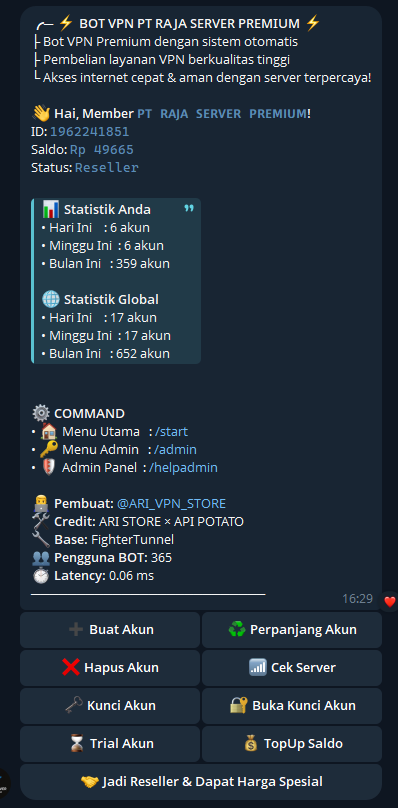
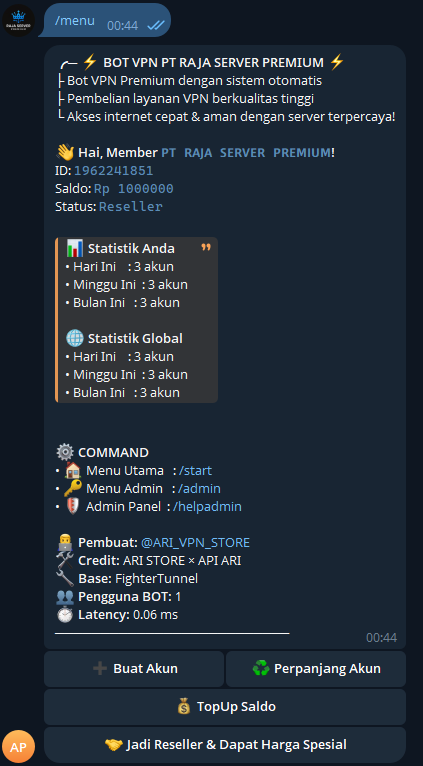
up

diff --git a/app.js b/app.js
@@ -37,51 +37,12 @@ const {
 } = require('./modules/create');
 
 const { 
-  trialssh, 
-  trialvmess, 
-  trialvless, 
-  trialtrojan, 
-  trialshadowsocks 
-} = require('./modules/trial');
-
-const { 
   renewssh, 
   renewvmess, 
   renewvless, 
   renewtrojan, 
   renewshadowsocks 
 } = require('./modules/renew');
-
-const { 
-  delssh, 
-  delvmess, 
-  delvless, 
-  deltrojan, 
-  delshadowsocks 
-} = require('./modules/del');
-
-const { 
-  lockssh, 
-  lockvmess, 
-  lockvless, 
-  locktrojan, 
-  lockshadowsocks 
-} = require('./modules/lock');
-
-const { 
-  unlockssh, 
-  unlockvmess, 
-  unlockvless, 
-  unlocktrojan, 
-  unlockshadowsocks 
-} = require('./modules/unlock');
-
-const { 
-  changelimipsshvpn, 
-  changelimipvmess, 
-  changelimipvless, 
-  changelimiptrojan
-} = require('./modules/change-ip');
 
 const fsPromises = require('fs/promises');
 const path = require('path');
@@ -418,7 +379,7 @@ Status: <code>${statusReseller}</code>
 • 🛡 Admin Panel  : /helpadmin
 
 👨💻 <b>Pembuat:</b> @ARI_VPN_STORE
-🛠 <b>Credit:</b> ARI STORE × API POTATO
+🛠 <b>Credit:</b> ARI STORE × API ARI
 🔧 <b>Base:</b> FighterTunnel
 👥 <b>Pengguna BOT:</b> ${jumlahPengguna}
 ⏱ <b>Latency:</b> ${latency} ms
@@ -431,19 +392,6 @@ let keyboard;
       { text: '♻ Perpanjang Akun', callback_data: 'service_renew' }
     ],
     [
-      { text: '❌ Hapus Akun', callback_data: 'service_del' },
-      { text: '📶 Cek Server', callback_data: 'cek_service' }
-    ],
-    [
-      { text: '🔀 Change Limit IP', callback_data: 'service_changelimip' },
-      { text: '🔧 Fix Akun Erorr', callback_data: 'service_fix' }
-    ],
-    [
-      { text: '🗝 Kunci Akun', callback_data: 'service_lock' },
-      { text: '🔐 Buka Kunci Akun', callback_data: 'service_unlock' }
-    ],
-    [
-      { text: '⌛ Trial Akun', callback_data: 'service_trial' },
       { text: '💰 TopUp Saldo', callback_data: 'topup_saldo' }
     ],
     [
